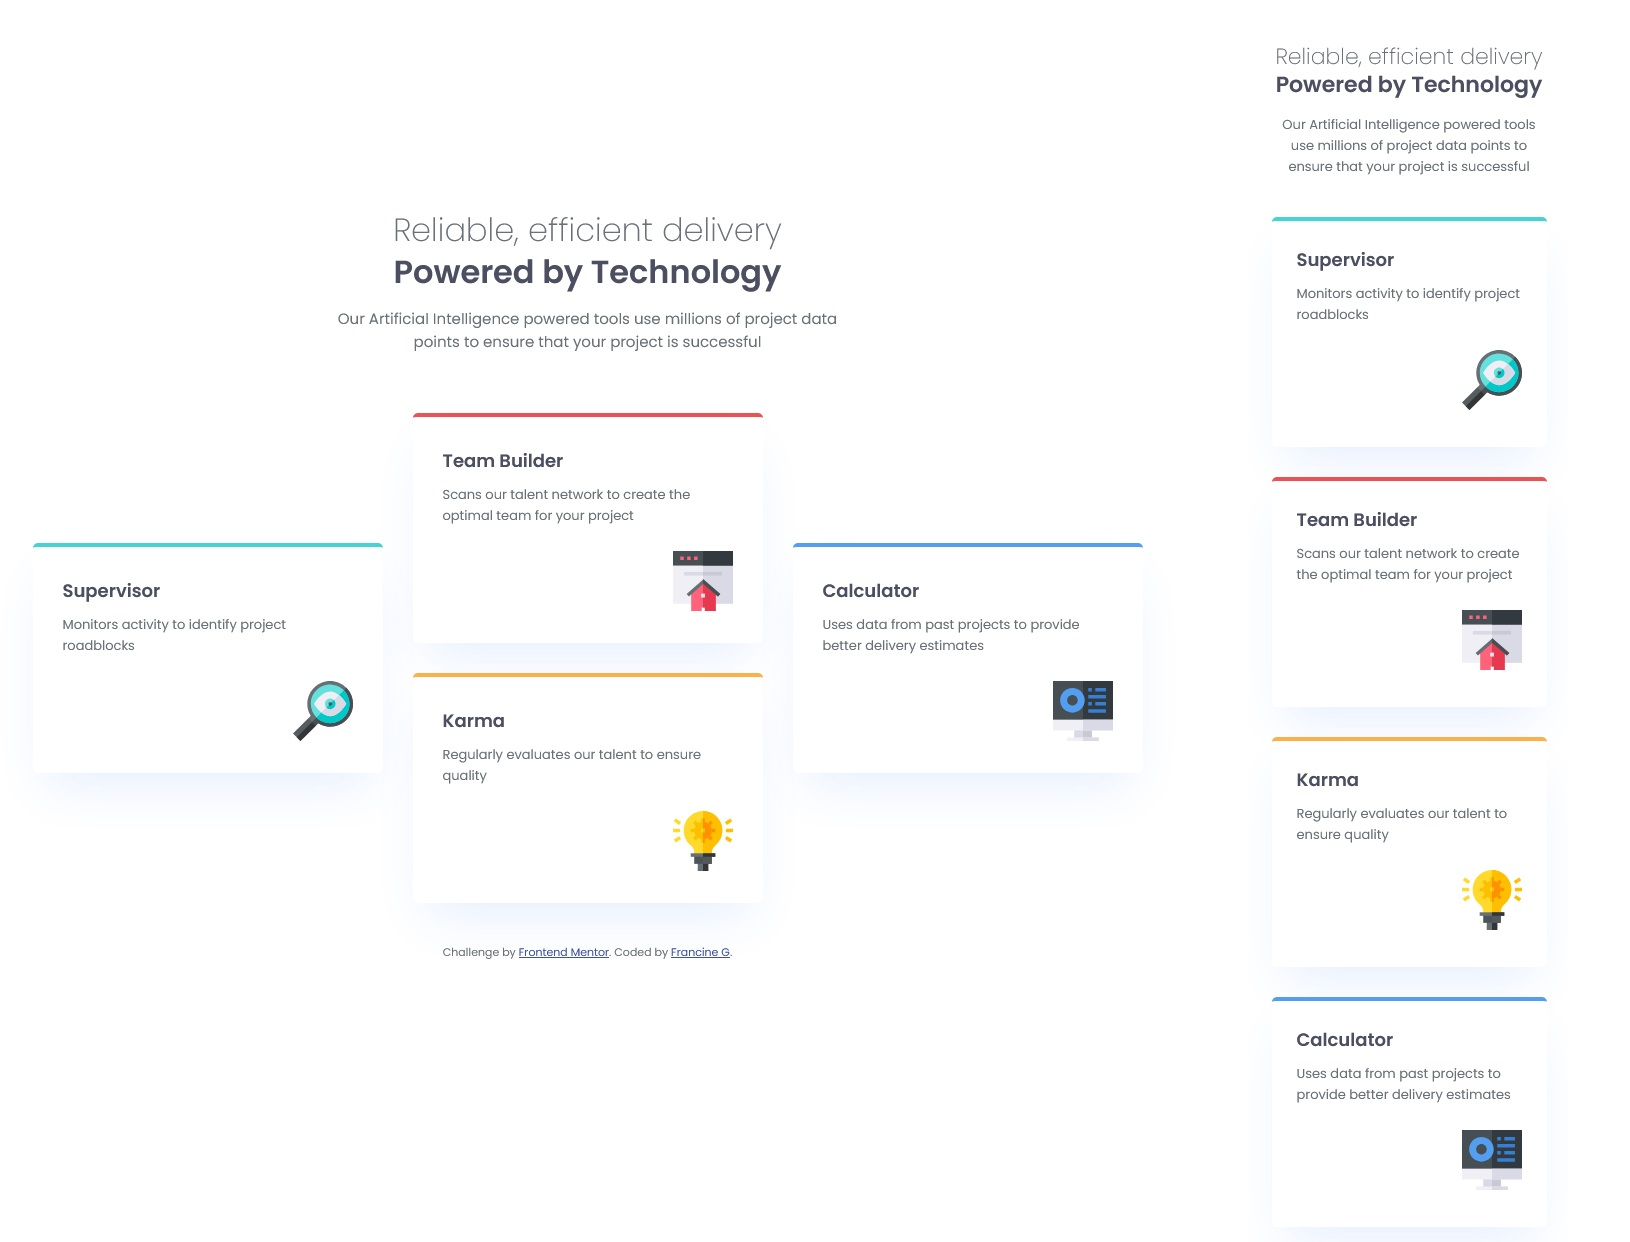
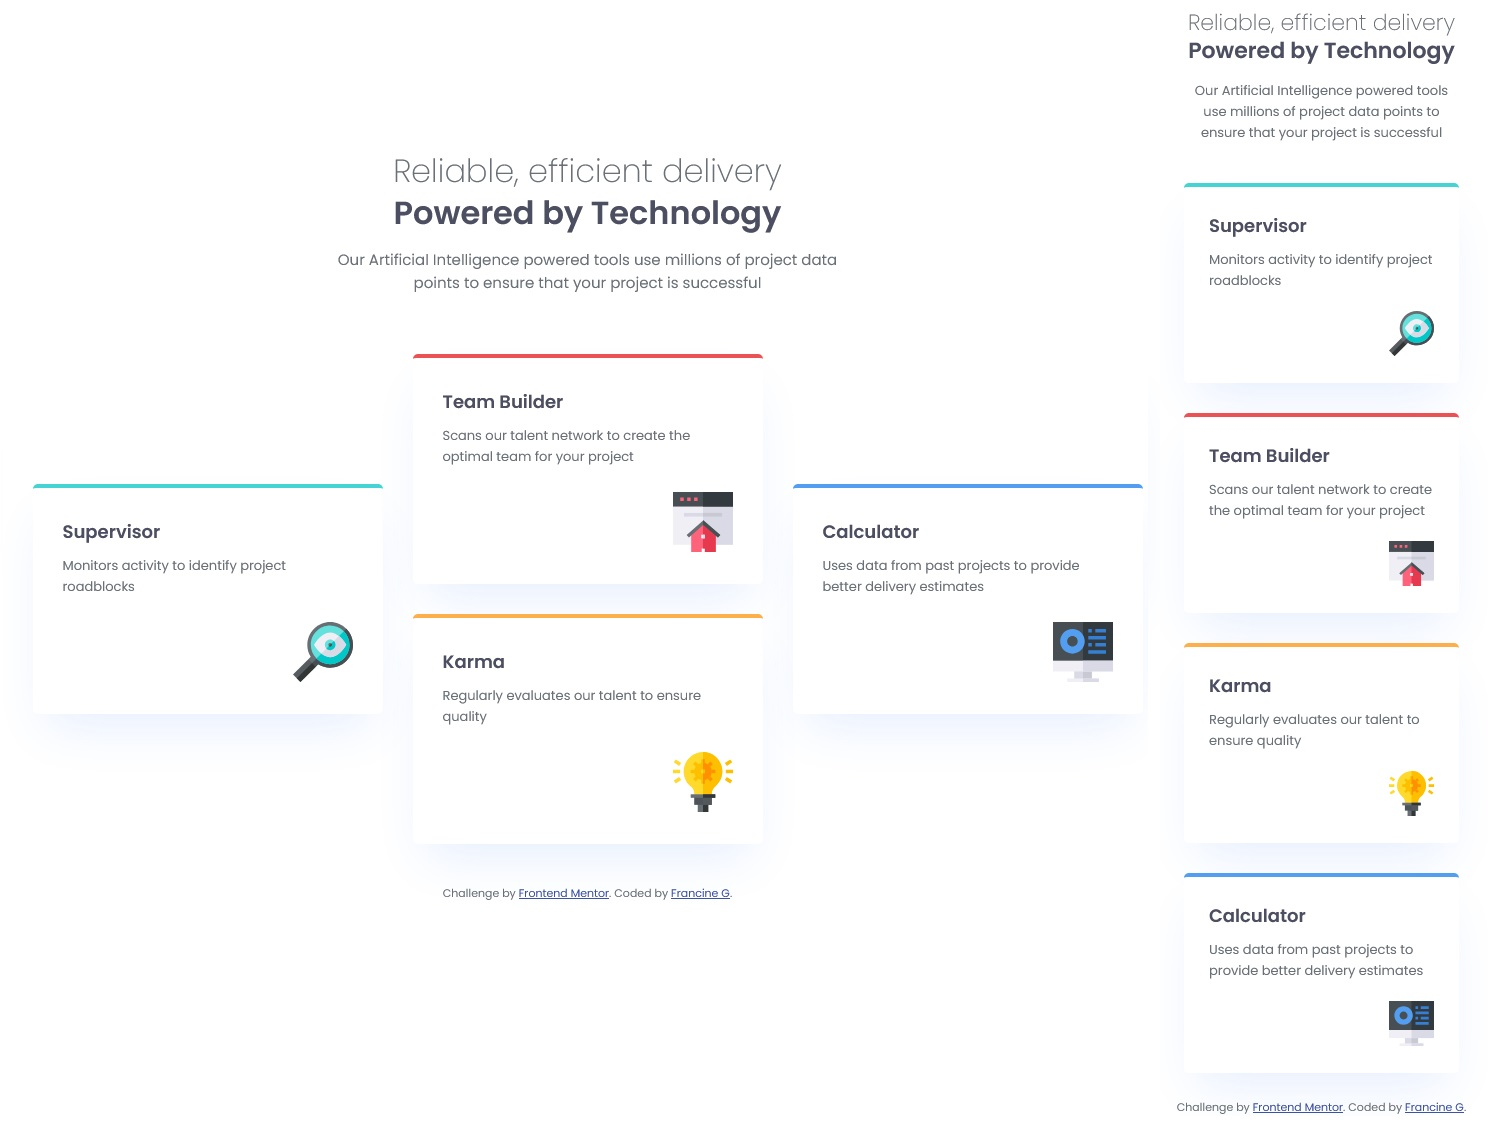
ajuste no tamanho dos icones

diff --git a/four-card-feature-section/style.css b/four-card-feature-section/style.css
@@ -154,7 +154,7 @@ footer {
   .intro {
     max-width: 275px;
   }
-  
+
   h1,
   .highlight {
     font-size: 22px;
@@ -166,9 +166,9 @@ footer {
 
   .card {
     width: 275px;
-    height: 230px;
+    height: 200px;
     padding: 25px;
-    gap: 15px;    
+    gap: 15px;
   }
 
   .container {
@@ -176,4 +176,11 @@ footer {
     padding: 5px;
   }
 
+  img {
+    max-width: 45px;
+  }
+
+  .card-img {
+    margin-top: 5px;
+  }
 }
